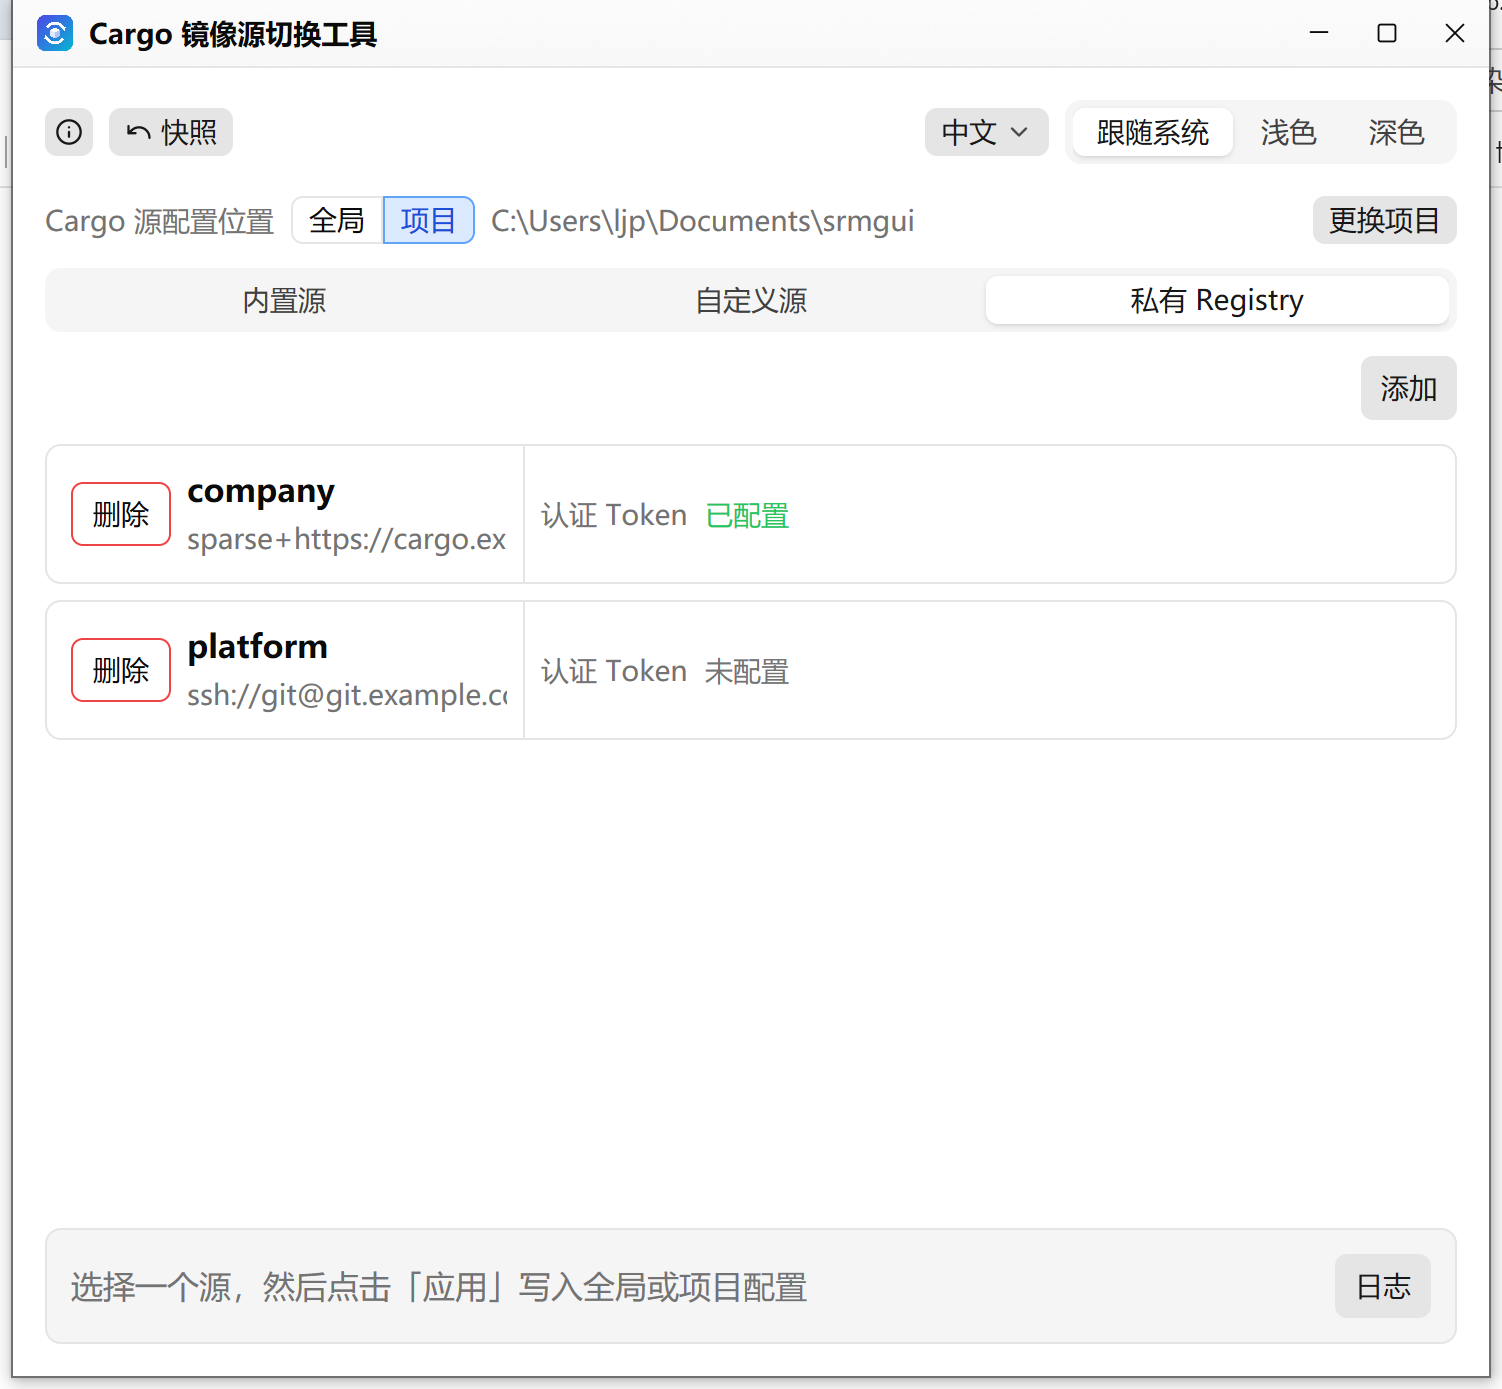
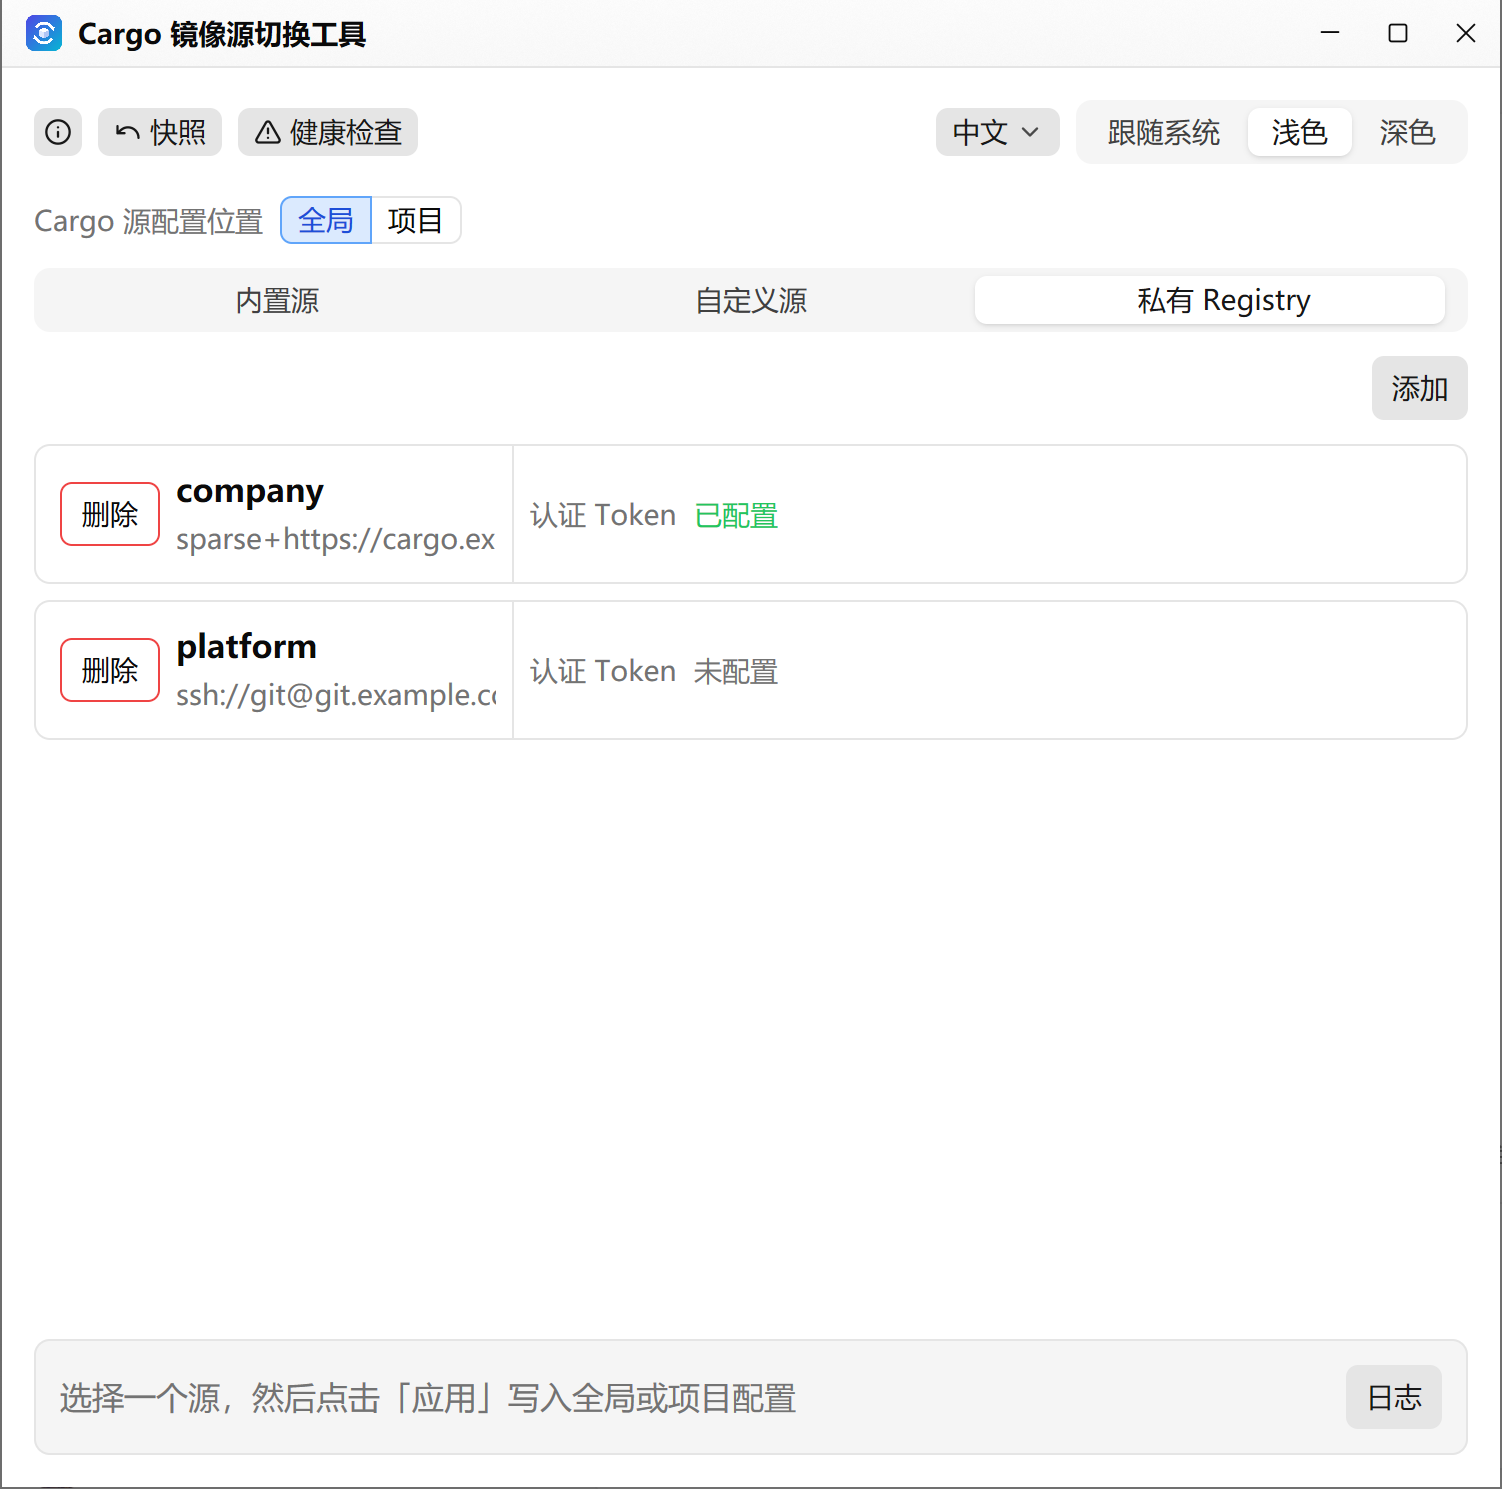
docs: 更新界面截图，补充健康检查与写入前预览截图及说明

diff --git a/README.md b/README.md
@@ -11,6 +11,8 @@
 | ![内置源](.screenshots/01-builtin-sources.png) | ![自定义源](.screenshots/04-custom-sources.png) |
 | 私有 Registry | 添加私有 Registry |
 | ![私有 Registry](.screenshots/05-private-registry.png) | ![添加私有 Registry](.screenshots/06-private-add.png) |
+| 配置健康检查 | 写入前预览 |
+| ![配置健康检查](.screenshots/07-health-check.png) | ![写入前预览](.screenshots/08-write-preview.png) |
 | 日志面板 | 深色模式 |
 | ![日志面板](.screenshots/03-log.png) | ![深色模式](.screenshots/02-dark-mode.png) |
 
@@ -31,6 +33,7 @@
 - **写入前预览**：点击「应用」先展示合并后的配置差异（行级 diff，`+` / `-` 着色），确认后才落盘，取消不产生任何改动。
 - **配置快照与回滚**：每次写入前自动保留配置快照（最多最近 10 份），可一键恢复到任意一次；快照标签标注「切换前源」，与内容始终一致。
 - **快照对比**：每条快照支持「与当前对比」，也可选定另一条快照互相对比，直观看出切换前后的配置变化。
+- **配置健康检查**：扫描 `config.toml` 中被其他工具改坏后的常见残留——重复表头、指向不存在源的 `replace-with`、孤立 `[source.x]` 段与 TOML 语法错误，并支持一键修复。
 - **自动检查更新**：启动后台检查 GitHub Releases 并每 6 小时复查，发现新版本时右上角提示；点击可选择用系统下载工具或应用内下载。
 - **安全写入**：写入前自动备份原配置为 `config.toml.bak`。
 
@@ -51,6 +54,7 @@
 2. 点击目标源右侧的「应用」，在弹出的「写入前预览」中查看目标路径、变更摘要与 `+` / `-` 着色 diff，确认无误后点击「确认写入」，配置才会写入 `~/.cargo/config.toml`（优先使用 `$CARGO_HOME`）；点击「取消」不会产生任何改动。
 3. 当前生效的源会在行尾显示「当前生效 ✅」。
 4. 如需回退，点击标题栏的「快照」按钮，在列表中选择某次快照点击「恢复」即可。
+5. 如果配置被其他工具改坏，点击标题栏的「健康检查」，扫描并一键修复问题。
 
 ### 写入前预览
 
@@ -68,6 +72,17 @@
 - 快照记录的是**切换前**的配置，列表标签以「切换前源」标注当时实际生效的源；
 - 点击「快照」→ 某条记录的「恢复」即可回滚，恢复前仍会把当前文件备份为 `.bak`；
 - 每条快照还提供「与当前对比」和「对比」（选择另一份快照）两个入口，用只读 diff 查看差异。
+
+### 配置健康检查
+
+其他工具（编辑器插件、脚本、手工编辑）改动 `config.toml` 后，常会留下 cargo 无法解析或会静默失效的残留。点击标题栏的「健康检查」会扫描当前作用域的配置文件，逐条列出问题与处理方式：
+
+- **重复表头**：同一个 `[source.x]` 被重复追加，TOML 无法解析；修复时保留最后一段。
+- **残留替换块**：`replace-with` 指向的源已不存在，cargo 会直接报错；修复时移除对应的 `replace-with`，回到默认行为。
+- **孤立源段**：`[source.x]` 既没有被 `replace-with` 引用，也不属于 srmgui 管理的源（内置源与登记过的自定义源不受影响）；修复时删除该段。
+- **语法错误**：配置已无法解析且无法就地修补时，回退到最近一份可解析的快照，没有快照则使用 `config.toml.bak`。
+
+修复前会自动保存快照与 `.bak` 备份；无法解析又没有可用备份时会明确提示，不会强行覆盖。检查与修复结果都会写入日志面板。
 
 ### 自定义源
 
@@ -202,6 +217,7 @@ srmgui/
 │   ├── diff.rs       # 行级 LCS diff 算法
 │   ├── registry.rs   # 内置源列表与 config.toml 内容生成
 │   ├── config_io.rs  # 配置读取/写入、快照保存与恢复、自定义源与私有 Registry 管理
+│   ├── health.rs     # 配置健康检查：扫描重复表头、残留替换块、孤立源段与语法错误并修复
 │   ├── update.rs     # 检查 GitHub Releases、下载并启动安装包
 │   └── net.rs        # 四层网络探测
 └── Cargo.toml
